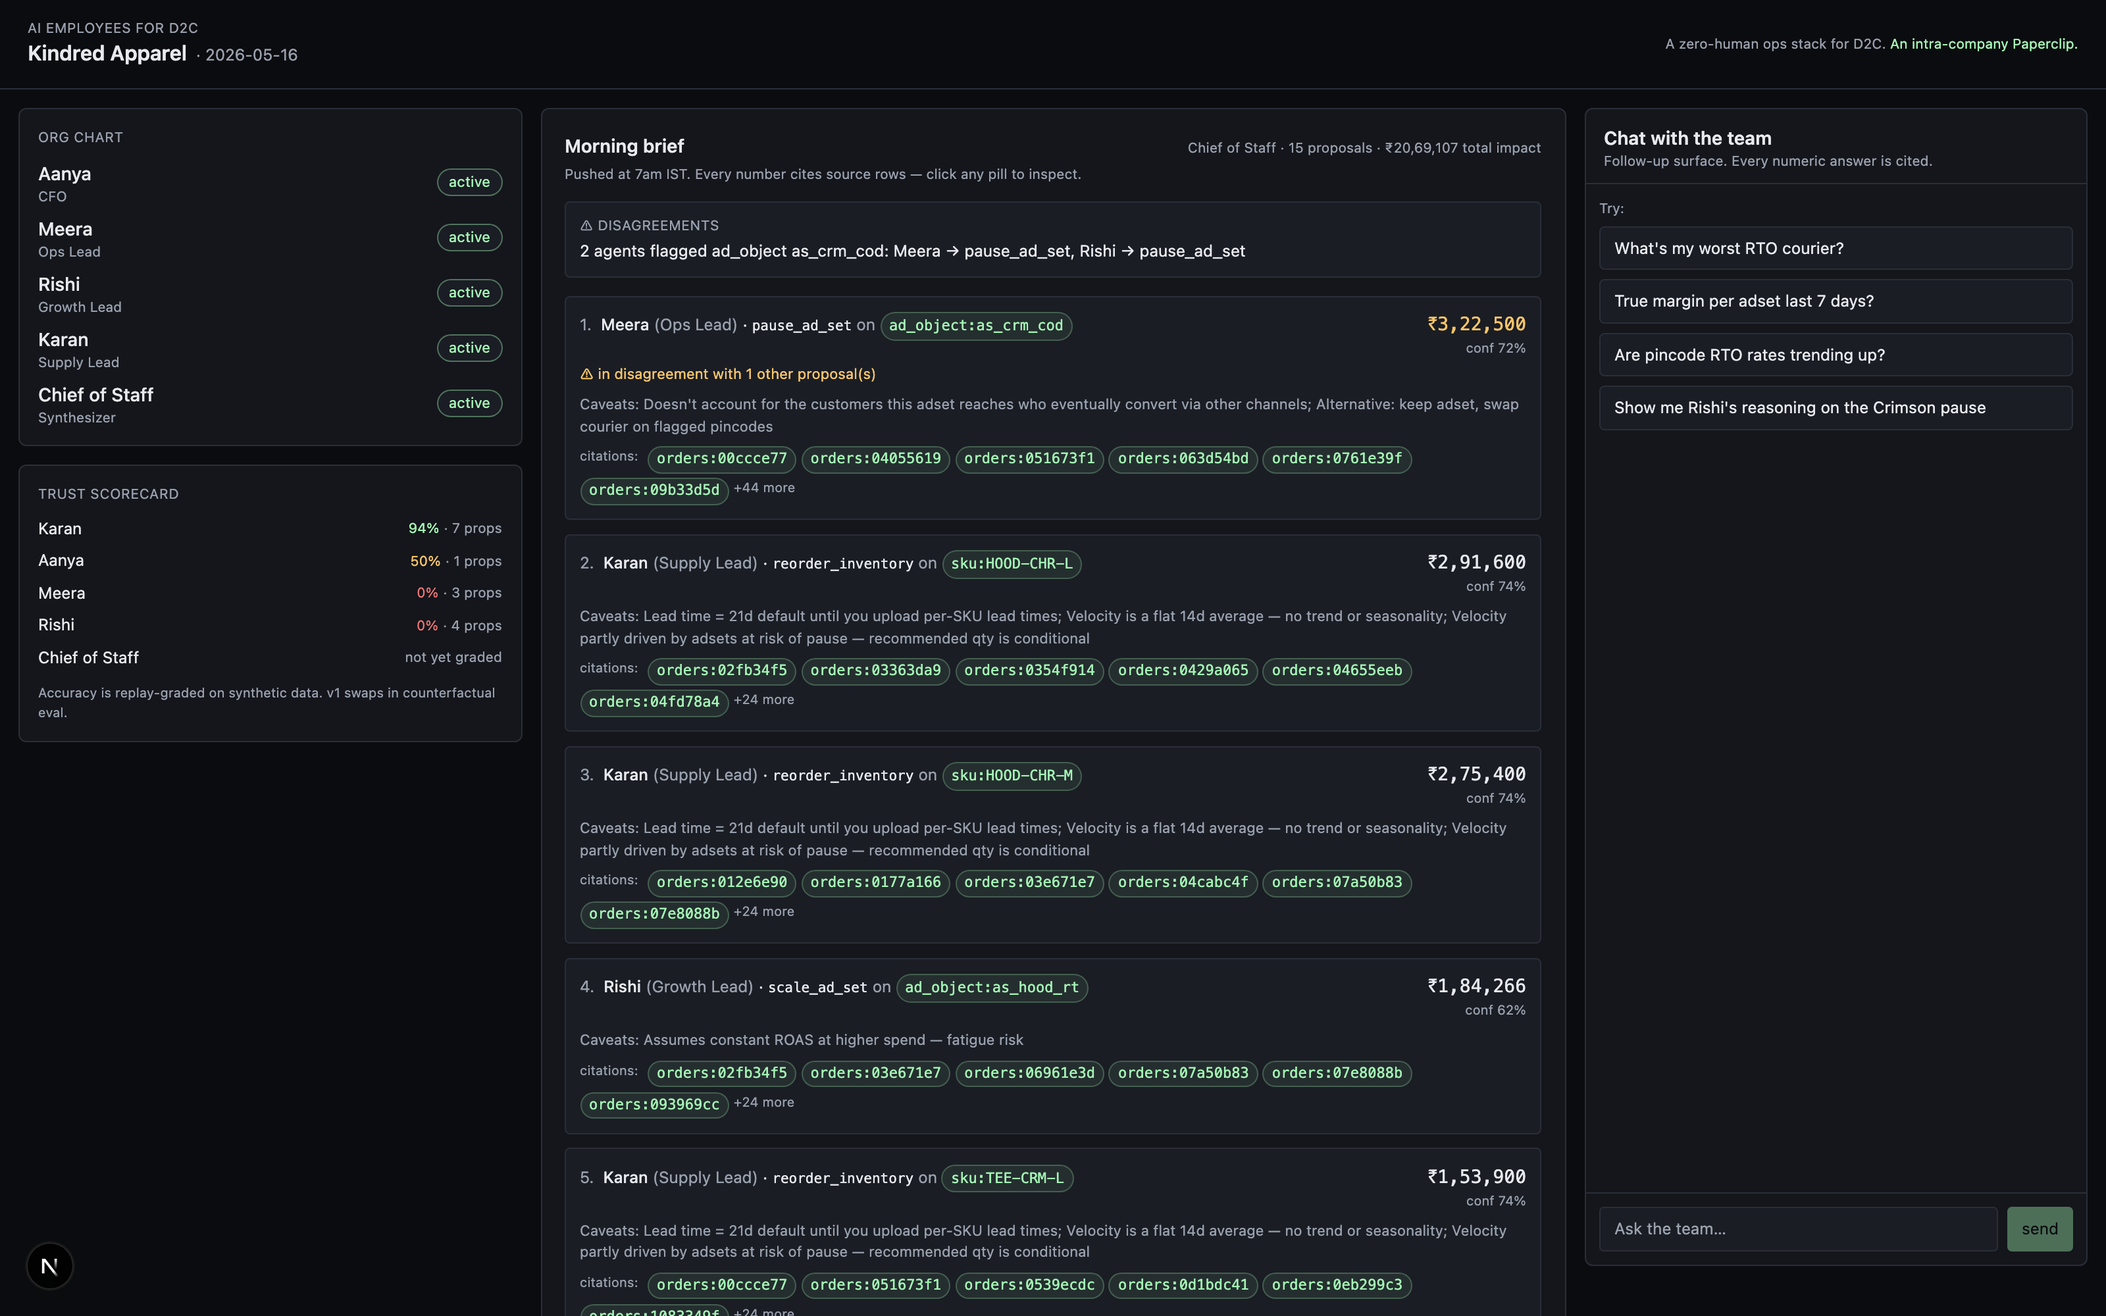
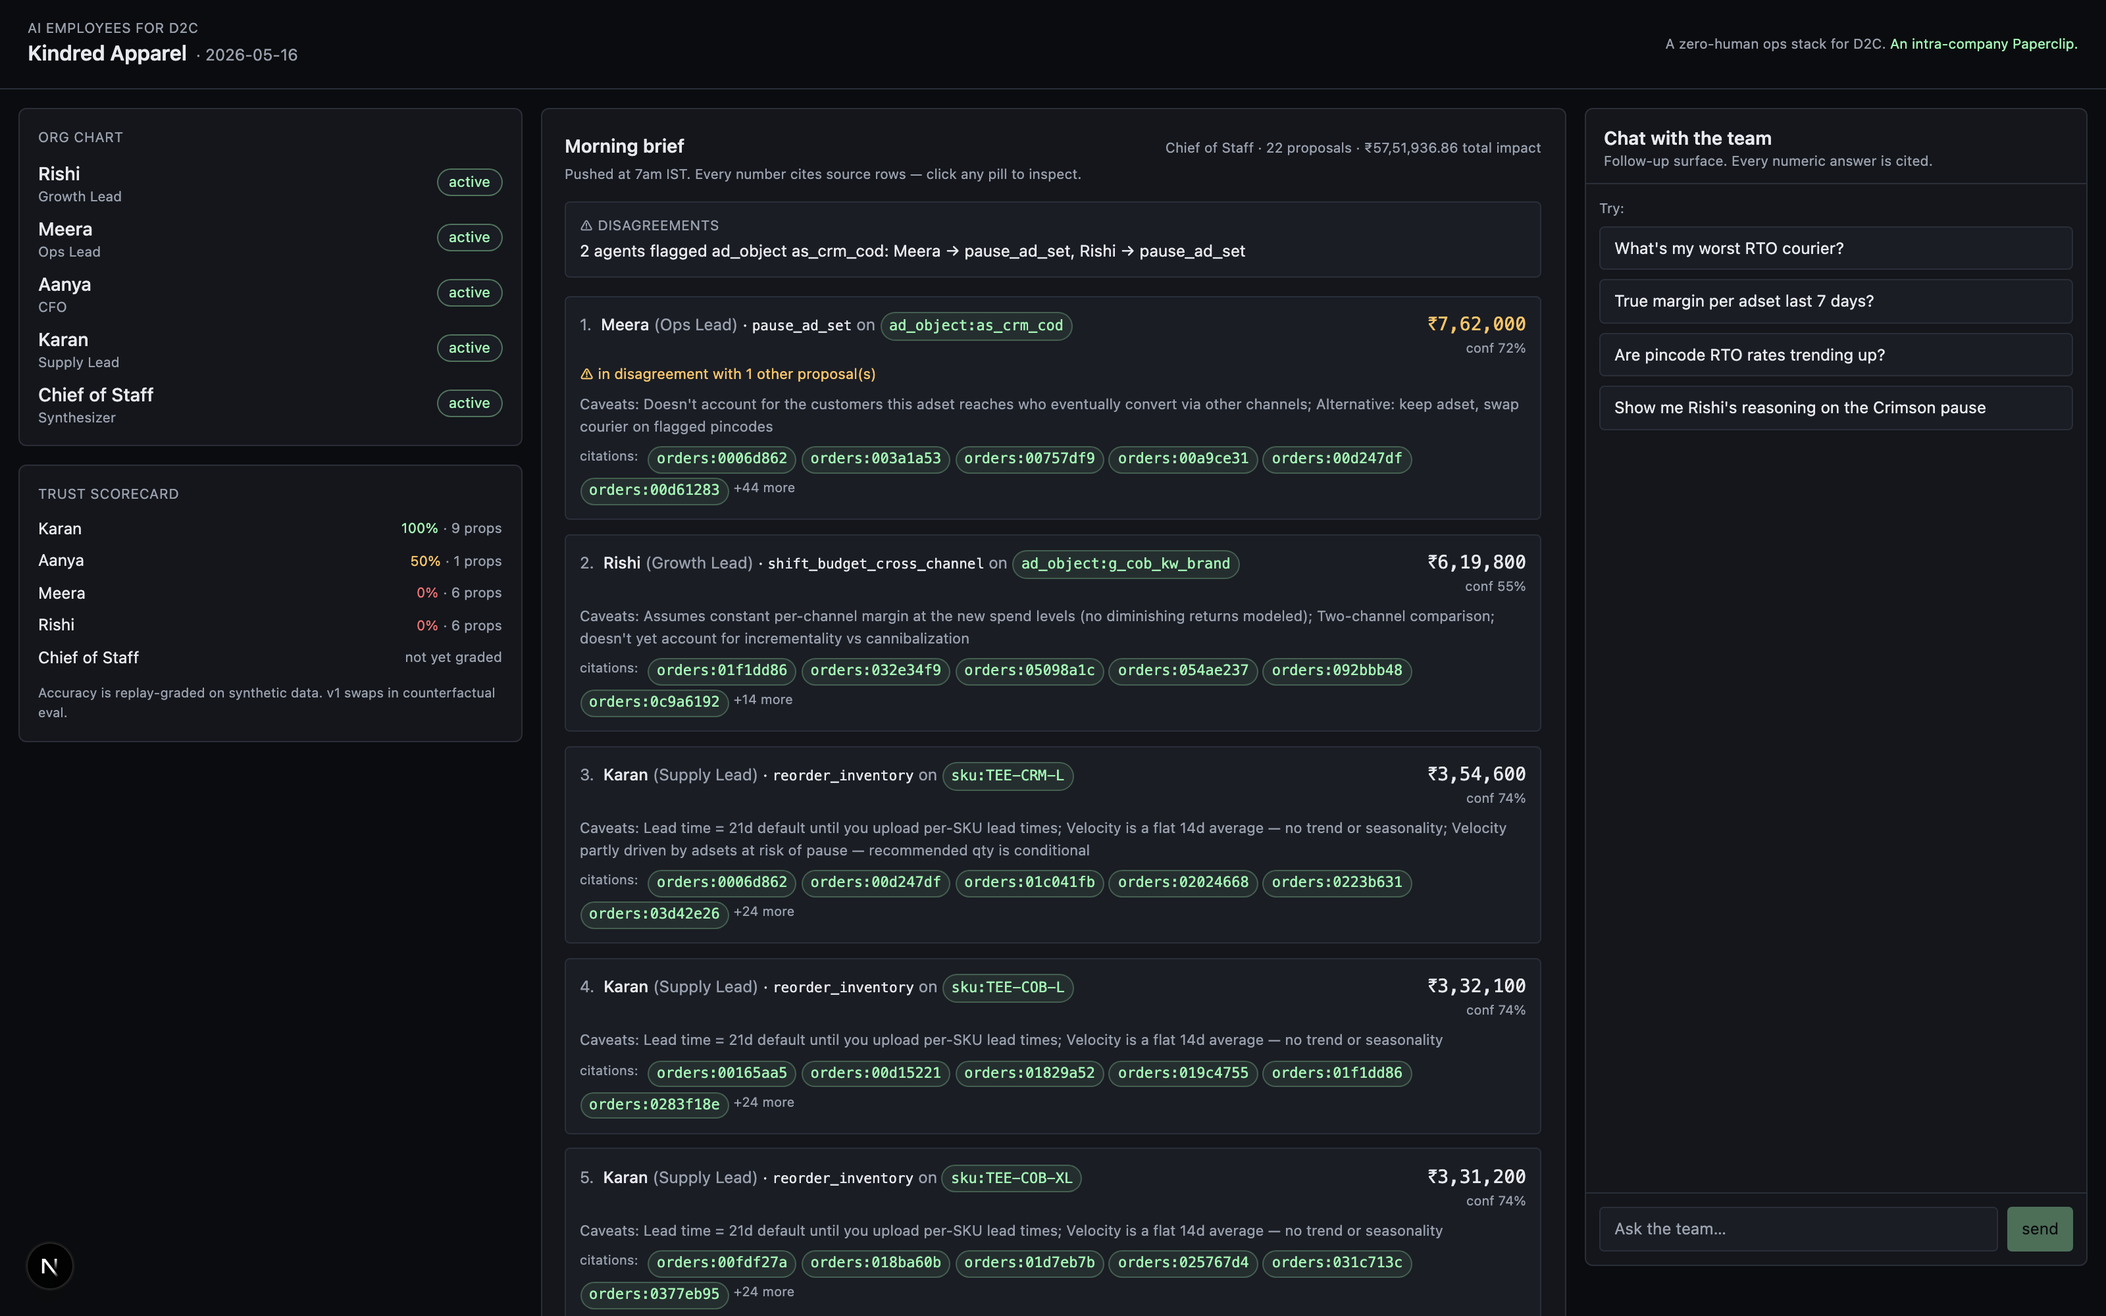
docs: rewrite README opening + reflect 5 connectors + new screenshots
The opening section now walks the reader through what this thing IS,
step by step, instead of dropping them into a one-line pitch:

  - One-sentence pitch first ("an AI company that does the ops work")
  - Why "a company" — the brief said "AI employees" plural, so the
    plural matters. Once you have a team, you need a manager, an
    inbox, a hiring process. The shape of the product follows.
  - What's actually in the team (4 specialists + Chief of Staff)
  - The hire() chat tool, the autonomous-hire opt-in, why both
  - What the founder actually sees every morning (the brief + the
    Citation Inspector)
  - What the engineered disagreement is and why it matters

Connector section updated to reflect 5 built connectors (Google Ads
moved from v1 to "built"). New paragraph explains the product hook
Google Ads unlocks: cross-channel margin-per-rupee comparison and
Rishi's shift_budget_cross_channel proposal.

Screenshots regenerated against the new data — the morning brief now
shows the cross-channel shift proposal in position #2 and the trust
scorecard with replay-graded accuracy per agent.

demo/answers.md re-run against current data.

(The fixture json churn comes from the seeder regenerating timestamps;
the structural data is the same.)

diff --git a/README.md b/README.md
@@ -1,8 +1,19 @@
 # AI Employees for D2C
 
-The idea: an AI company that runs the ops side of a D2C brand. Five named employees, a Chief of Staff who writes a morning brief, a chat layer to interrogate the team, and a citation system that makes every number clickable back to its source row.
+My take-home build for the Shiprocket interview. Let me walk you through what it is, because the shape of it isn't obvious from the title.
 
-The demo merchant is Kindred Apparel, a synthetic Bangalore streetwear brand. The data is engineered around one specific problem: a Meta adset that looks profitable on ROAS but loses money once you net out RTO, shipping, and COGS. Two of my agents independently flag the same adset, for different reasons. The Chief of Staff catches the disagreement and puts it at the top of the brief.
+**The pitch in one sentence:** I built an AI company that does the ops work for a D2C brand. Not a chatbot, not a dashboard — an actual company structure, with named employees, a manager who runs the morning standup, a way to hire new employees by typing in chat, and the option (off by default) to let the company hire itself when it notices the same problem keeps showing up.
+
+**Why "a company"?** The brief says "AI employees for D2C brands". Plural. Even though the spec only required one autonomous agent, I took the plural seriously. Once you have more than one agent, you immediately need the things a real team needs: someone to run the standup, a way to detect when two people disagree about the same thing, an inbox of proposals the founder can actually act on, and a hiring process for when the team needs to grow. So instead of one analytical agent, the product is:
+
+- **Four specialists** with distinct jobs and decision rules — Aanya (CFO), Rishi (Growth), Meera (Ops), Karan (Supply).
+- **A Chief of Staff** who reads everyone's proposals, ranks them by impact, catches disagreements, and writes the morning brief the founder reads first.
+- **A `hire()` chat tool** so the founder can spawn a new specialist by typing in plain English ("hire a watcher for the Patna lane and alert if RTO crosses 60%"). New hires join the same `agents` table, run on whatever schedule the founder set, and produce proposals just like the pre-built ones.
+- **An opt-in autonomous mode** where the Chief of Staff is allowed to hire watchers herself, but only inside hard rules (one new hire per run, only on targets flagged across 3+ runs, never on the same target twice). Default off — the section "Does the company hire itself?" walks through why.
+
+**What it actually does for the founder.** Every morning at 7am, the team has already run. The founder opens the app and sees a ranked brief: which adset is bleeding money, which SKU is about to stock out, which pincode-courier lane is degrading, which Meta-vs-Google channel is winning. Every number on screen is clickable: tap it and the Citation Inspector shows the exact row in the universal schema, plus the raw API payload it came from. No "trust me". If the founder wants to dig further they can chat with the team and ask follow-ups, and the citation contract holds in chat too — every numeric claim is verified server-side before it reaches them.
+
+**The demo merchant is Kindred Apparel**, a synthetic Bangalore streetwear brand. The data is engineered around one specific problem: a Meta adset (Crimson Tee COD Push) that looks profitable on ROAS but loses money once you net out RTO, shipping, and COGS. Two of my agents — Rishi (Growth) and Meera (Ops) — independently flag the same adset, for different reasons. The Chief of Staff catches the disagreement and surfaces it at the top of the brief. That's the moment the system stops feeling like a chatbot and starts feeling like a team.
 
 ![Morning brief — the founder's daily surface](docs/screenshots/01-morning-brief.png)
 
@@ -24,7 +35,7 @@ The third line that mattered: *"two things matter equally: how well you build, a
 
 ## The connectors
 
-I picked Shopify, Meta Ads, and Shiprocket. The three tools an Indian D2C founder actually has open at 11pm wondering why their bank balance isn't growing. Each covers a different category: revenue, acquisition cost, fulfillment. Together they answer the question no single one can. Which SKUs are actually profitable, after everything.
+I picked Shopify, Meta Ads, and Shiprocket as the three required SaaS sources. Those are the three tools an Indian D2C founder actually has open at 11pm wondering why their bank balance isn't growing. Each one covers a different category: revenue, acquisition cost, fulfillment. Together they answer the question no single one can. Which SKUs are actually profitable, after everything.
 
 Why these three? Because for the cross-tool questions I had in mind (true margin per SKU, which adsets drive high-RTO orders, which pincodes are eating margin), I need all three. Drop any one and the question collapses to a single-source view that the founder can already see in their existing dashboard.
 
@@ -32,15 +43,23 @@ What I rejected for v0:
 
 - *Razorpay* — for v0 it duplicates the order data already in Shopify. Would matter for COD reconciliation, which is out of scope.
 - *Klaviyo* — retention story. Wrong layer for an ops-first build.
-- *GA4* — overlaps with Meta UTMs on attribution.
 
-Then I added a fourth in v0: **CSV**. Not counted as one of the three SaaS picks. It's a stress test of the abstraction. If my `Connector` interface only handles REST APIs, the abstraction is shallow. A CSV upload going through the same `auth → fetch → normalize` pipeline proves it's actually source-agnostic. It also fills a real gap: SKU-level COGS doesn't live in any of the three SaaS sources, it lives in the founder's spreadsheet. So Aanya and Rishi's margin math goes from a 40% proxy to a real number once the founder uploads the file.
+Then I added two more on top of the three required, each with a specific job:
+
+**CSV (the abstraction stress-test).** Not a SaaS source by design. If my `Connector` interface only handles REST APIs, the abstraction is shallow. A CSV upload going through the same `auth → fetch → normalize` pipeline proves it's actually source-agnostic. It also fills a real gap — SKU-level COGS doesn't live in any of the three SaaS sources, it lives in the founder's spreadsheet. So Aanya and Rishi's margin math goes from a 40% proxy to a real number once the founder uploads the file.
+
+**Google Ads (the cross-channel hook).** Mirrors Meta in shape (campaign / ad_group → adset / ad), reuses the same `ad_objects` and `ad_spend_daily` tables under `source = 'google'`. It's not just "another spend table" — it unlocks a question the system couldn't answer before: *for a given SKU driven by ads on both channels, where is each rupee working harder?* Rishi gets a new proposal type, `shift_budget_cross_channel`, that compares margin-per-rupee on the same SKU across Meta vs Google and proposes a budget shift when one channel is materially more efficient. On the demo data, Google's "Cobalt Brand Keywords" search ads outperform Meta's "Cobalt Tee Lookalikes" by enough that Rishi recommends shifting budget.
+
+What I'd reach for in v1 (researched, deliberately deferred):
+
+- *WhatsApp Business (via Wati or Interakt)* — Indian D2C runs on WhatsApp for COD reconfirmation, NDR resolution, and order updates. This is the most India-D2C-shaped connector after Shiprocket. Would feed Meera a "did we reach the customer pre-dispatch?" signal that historically halves RTO. Deferred because it's write-heavy (two-way integration, not just polling) and the data model needs message-state, which is its own design problem.
+- *A support tool (Gorgias or Freshdesk)* — opens up a Customer Success agent that watches ticket volume, return-reason text, and CSAT drops. Deferred because the agent itself doesn't exist yet, and the connector without the agent is dead code.
 
 The interface is in [`src/connectors/types.ts`](src/connectors/types.ts):
 
 ```ts
 interface Connector<TResource> {
-  source: 'shopify' | 'meta' | 'shiprocket' | 'csv'
+  source: 'shopify' | 'meta' | 'shiprocket' | 'csv' | 'google'
   resources: readonly TResource[]
   auth(creds): Promise<AuthContext>
   fetch(ctx, resource, cursor?): AsyncIterable<RawPage>

diff --git a/demo/answers.md b/demo/answers.md
@@ -2,7 +2,7 @@
 
 > The 10 cross-tool questions a D2C founder can't answer in <30 min today, answered by the system in milliseconds.
 
-Merchant: `cd3e3508-63cc-4200-a7f2-42b02315e28d`
+Merchant: `398091b2-ede8-4556-b73f-8fd95005ede3`
 
 ## How this file was generated — honest version
 
@@ -21,82 +21,82 @@ Total time across all 10 questions: <500ms.
 ### 1. What's my true margin per SKU after ad spend and shipping?
 *Shopify × Meta × Shiprocket*
 
-Worst adset by true margin: **Crimson Tee COD Push** at ₹-34,046 (revenue after RTO ₹4,82,678 on ₹1,03,963 spend). Best: **Hoodie Retargeting** at ₹6,57,625.
+Worst adset by true margin: **Crimson Tee COD Push** at ₹-2,60,282 (revenue after RTO ₹10,38,807 on ₹3,59,814 spend). Best: **Hoodie Retargeting** at ₹6,43,991.
 
-<details><summary>tool · `metrics` · 18ms · 200 citations</summary>
+<details><summary>tool · `metrics` · 24ms · 200 citations</summary>
 
 ```json
 input: {"entity":"true_margin_per_adset"}
 ```
 
-Sample citations: `orders:007f3af9`, `orders:00ccce77`, `orders:020c53ed` + 197 more
+Sample citations: `orders:0006d862`, `orders:003a1a53`, `orders:00449816` + 197 more
 
 </details>
 
 ### 2. Which Meta campaigns drive orders that mostly RTO?
 *Meta × Shopify × Shiprocket*
 
-**Crimson Tee COD Push** is the worst — 47.8% RTO (215 of 450 orders).
+**Crimson Tee COD Push** is the worst — 49.8% RTO (508 of 1020 orders).
 
-<details><summary>tool · `metrics` · 7ms · 200 citations</summary>
+<details><summary>tool · `metrics` · 12ms · 200 citations</summary>
 
 ```json
 input: {"entity":"true_margin_per_adset"}
 ```
 
-Sample citations: `orders:007f3af9`, `orders:00ccce77`, `orders:020c53ed` + 197 more
+Sample citations: `orders:0006d862`, `orders:003a1a53`, `orders:00449816` + 197 more
 
 </details>
 
 ### 3. Which pincodes lose me money after attributing ad spend?
 *Shopify × Meta × Shiprocket*
 
-Top 3 lossy pincodes by RTO: **800020** (72%, 87/121), **800001** (70%, 107/153), **110001** (19%, 25/130).
+Top 3 lossy pincodes by RTO: **800001** (73%, 248/342), **800020** (67%, 210/314), **700001** (25%, 75/306).
 
-<details><summary>tool · `metrics` · 1ms · 43 citations</summary>
+<details><summary>tool · `metrics` · 3ms · 55 citations</summary>
 
 ```json
 input: {"entity":"rto","group_by":"pincode"}
 ```
 
-Sample citations: `shipments:7bc94cbc`, `shipments:78a9c49b`, `shipments:c21b01a3` + 40 more
+Sample citations: `shipments:e6afe49e`, `shipments:d8c7736b`, `shipments:15854a1e` + 52 more
 
 </details>
 
 ### 4. What's my CAC payback period net of returns?
 *Meta × Shopify × Shiprocket*
 
-Blended CAC ≈ ₹230 on 1020 orders. AOV-after-RTO ≈ ₹2,064. Implied payback ≈ **0.3 repeat orders** at a 40% take-rate proxy.
+Blended CAC ≈ ₹243 on 2280 orders. AOV-after-RTO ≈ ₹1,765. Implied payback ≈ **0.3 repeat orders** at a 40% take-rate proxy.
 
-<details><summary>tool · `metrics` · 5ms · 200 citations</summary>
+<details><summary>tool · `metrics` · 12ms · 200 citations</summary>
 
 ```json
 input: {"entity":"true_margin_per_adset"}
 ```
 
-Sample citations: `orders:007f3af9`, `orders:00ccce77`, `orders:020c53ed` + 197 more
+Sample citations: `orders:0006d862`, `orders:003a1a53`, `orders:00449816` + 197 more
 
 </details>
 
 ### 5. Are my highest-revenue customers in high-RTO pincodes?
 *Shopify × Shiprocket*
 
-2 pincode(s) cross 30% RTO. The worst is **800020** at 72%. Cross-reference against your top customers via the `rows` tool on `orders` filtered by pincode.
+2 pincode(s) cross 30% RTO. The worst is **800001** at 73%. Cross-reference against your top customers via the `rows` tool on `orders` filtered by pincode.
 
-<details><summary>tool · `metrics` · 2ms · 43 citations</summary>
+<details><summary>tool · `metrics` · 2ms · 55 citations</summary>
 
 ```json
 input: {"entity":"rto","group_by":"pincode"}
 ```
 
-Sample citations: `shipments:7bc94cbc`, `shipments:78a9c49b`, `shipments:c21b01a3` + 40 more
+Sample citations: `shipments:e6afe49e`, `shipments:d8c7736b`, `shipments:15854a1e` + 52 more
 
 </details>
 
 ### 6. Which courier-pincode lanes are eating margin I'm not seeing?
 *Shopify × Shiprocket*
 
-**Bluedart** is the worst courier — 39.2% RTO across 587 shipments. Drill into lanes via the `rows` tool filtered by courier.
+**Bluedart** is the worst courier — 41.6% RTO across 1336 shipments. Drill into lanes via the `rows` tool filtered by courier.
 
 <details><summary>tool · `metrics` · 1ms · 20 citations</summary>
 
@@ -104,14 +104,14 @@ Sample citations: `shipments:7bc94cbc`, `shipments:78a9c49b`, `shipments:c21b01a
 input: {"entity":"rto","group_by":"courier"}
 ```
 
-Sample citations: `shipments:9a6a0ed8`, `shipments:7bc94cbc`, `shipments:64d070d9` + 17 more
+Sample citations: `shipments:49a79572`, `shipments:7a112f7e`, `shipments:67a3219d` + 17 more
 
 </details>
 
 ### 7. If I cut Meta spend by ₹X, what's the runway impact net of RTO savings?
 *Shopify × Meta × Shiprocket*
 
-Aanya's current proposal: cut Meta spend by ₹1,28,207, primarily on adsets the team flagged. Predicted monthly burn reduction: ₹1,28,207 over 30 days.
+Aanya's current proposal: cut Meta spend by ₹3,59,814, primarily on adsets the team flagged. Predicted monthly burn reduction: ₹3,59,814 over 30 days.
 
 <details><summary>tool · `proposals_list` · 1ms · 1 citations</summary>
 
@@ -119,55 +119,55 @@ Aanya's current proposal: cut Meta spend by ₹1,28,207, primarily on adsets the
 input: {"agent":"Aanya","limit":5}
 ```
 
-Sample citations: `proposals:dc098500`
+Sample citations: `proposals:03a5dd05`
 
 </details>
 
 ### 8. Which adsets pass ROAS but fail true-margin after RTO?
 *Meta × Shopify × Shiprocket*
 
-**Crimson Tee COD Push** — apparent ROAS 4.6× but true margin ₹-34,046 once RTO + COGS + shipping are netted.
+**Crimson Tee COD Push** — apparent ROAS 2.9× but true margin ₹-2,60,282 once RTO + COGS + shipping are netted.
 
-<details><summary>tool · `metrics` · 7ms · 200 citations</summary>
+<details><summary>tool · `metrics` · 11ms · 200 citations</summary>
 
 ```json
 input: {"entity":"true_margin_per_adset"}
 ```
 
-Sample citations: `orders:007f3af9`, `orders:00ccce77`, `orders:020c53ed` + 197 more
+Sample citations: `orders:0006d862`, `orders:003a1a53`, `orders:00449816` + 197 more
 
 </details>
 
 ### 9. Which SKUs am I about to stock out of, and how does that change if a flagged adset is paused?
 *Shopify × Meta × inventory*
 
-Karan flags 7 SKU(s):
-- **TEE-CRM-XL**: reorder 274; stocks out in 4.6d
-- **TEE-CRM-S**: reorder 328; stocks out in 5.1d
-- **TEE-CRM-M**: reorder 298; stocks out in 7d
+Karan flags 9 SKU(s):
+- **TEE-CRM-XL**: reorder 636; stocks out in 2d
+- **TEE-CRM-S**: reorder 720; stocks out in 2.3d
+- **TEE-CRM-M**: reorder 682; stocks out in 3.1d
 
-<details><summary>tool · `proposals_list` · 2ms · 7 citations</summary>
+<details><summary>tool · `proposals_list` · 1ms · 9 citations</summary>
 
 ```json
 input: {"agent":"Karan","limit":10}
 ```
 
-Sample citations: `proposals:33590328`, `proposals:b2e3140d`, `proposals:9be0c480` + 4 more
+Sample citations: `proposals:e2b8bb3c`, `proposals:76b69d84`, `proposals:edddc8b4` + 6 more
 
 </details>
 
 ### 10. Which COD orders should auto-convert to prepaid before dispatch?
 *Shopify × Shiprocket × historical RTO*
 
-Pincodes where COD orders should be auto-converted to prepaid (>40% historical RTO): 800020 (72%), 800001 (70%).
+Pincodes where COD orders should be auto-converted to prepaid (>40% historical RTO): 800001 (73%), 800020 (67%).
 
-<details><summary>tool · `metrics` · 1ms · 43 citations</summary>
+<details><summary>tool · `metrics` · 2ms · 55 citations</summary>
 
 ```json
 input: {"entity":"rto","group_by":"pincode"}
 ```
 
-Sample citations: `shipments:7bc94cbc`, `shipments:78a9c49b`, `shipments:c21b01a3` + 40 more
+Sample citations: `shipments:e6afe49e`, `shipments:d8c7736b`, `shipments:15854a1e` + 52 more
 
 </details>
 
